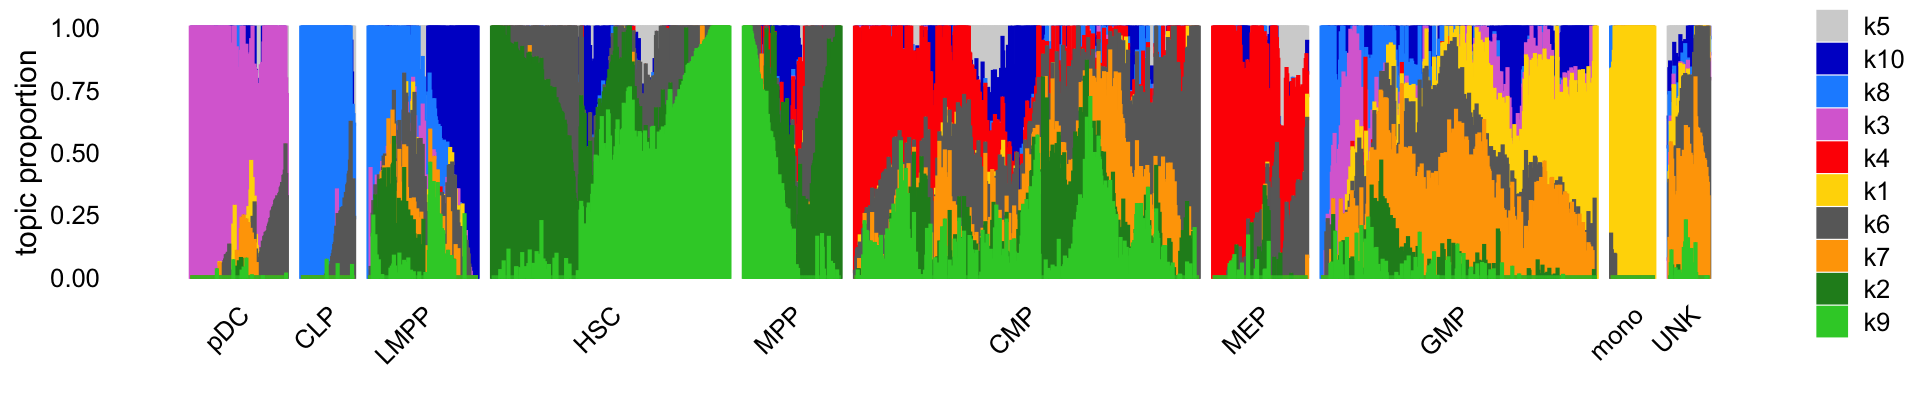
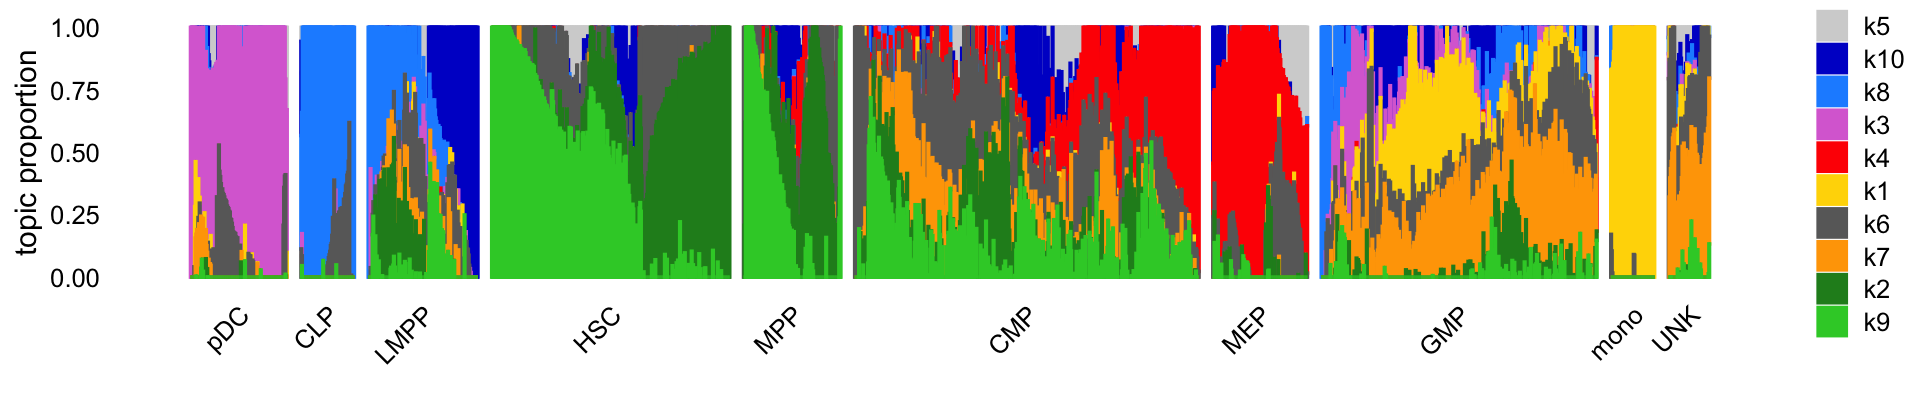
Build site.

diff --git a/docs/buenrostro2018_k10.html b/docs/buenrostro2018_k10.html
@@ -376,7 +376,7 @@ class="glyphicon glyphicon-ok text-success" aria-hidden="true"></span>
 <div class="tab-content">
 <div id="summary" class="tab-pane fade in active">
 <p>
-<strong>Last updated:</strong> 2022-07-11
+<strong>Last updated:</strong> 2022-07-13
 </p>
 <p>
 <strong>Checks:</strong> <span
@@ -507,15 +507,15 @@ project makes it easier to run your code on other machines.</p>
 <div class="panel panel-default">
 <div class="panel-heading">
 <p class="panel-title">
-<a data-toggle="collapse" data-parent="#workflowr-checks" href="#strongRepositoryversionstrongahrefhttpsgithubcomstephenslabscATACseqtopicstreee4bc1eff657f5145d69e3769ee2750c4e479804dtargetblanke4bc1efa">
+<a data-toggle="collapse" data-parent="#workflowr-checks" href="#strongRepositoryversionstrongahrefhttpsgithubcomstephenslabscATACseqtopicstreedcc80278da359d92bcd40405de8dfb720614eaeetargetblankdcc8027a">
 <span class="glyphicon glyphicon-ok text-success"
 aria-hidden="true"></span> <strong>Repository version:</strong>
-<a href="https://github.com/stephenslab/scATACseq-topics/tree/e4bc1eff657f5145d69e3769ee2750c4e479804d" target="_blank">e4bc1ef</a>
+<a href="https://github.com/stephenslab/scATACseq-topics/tree/dcc80278da359d92bcd40405de8dfb720614eaee" target="_blank">dcc8027</a>
 </a>
 </p>
 </div>
 <div
[2 lines of base64/hex data omitted]
 class="panel-collapse collapse">
 <div class="panel-body">
 <p>
@@ -525,7 +525,7 @@ reproducibility.
 </p>
 <p>
 The results in this page were generated with repository version
-<a href="https://github.com/stephenslab/scATACseq-topics/tree/e4bc1eff657f5145d69e3769ee2750c4e479804d" target="_blank">e4bc1ef</a>.
+<a href="https://github.com/stephenslab/scATACseq-topics/tree/dcc80278da359d92bcd40405de8dfb720614eaee" target="_blank">dcc8027</a>.
 See the <em>Past versions</em> tab to see a history of the changes made
 to the R Markdown and HTML files.
 </p>
@@ -551,8 +551,12 @@ Untracked files:
     Untracked:  analysis/fit-Buenrostro2018-binarized-scd-ex-k=10.rds
     Untracked:  data/Buenrostro_2018_binarized.RData
     Untracked:  output/Buenrostro_2018/binarized/filtered_peaks/Buenrostro_2018_binarized_filtered.RData
+    Untracked:  plots/
     Untracked:  scripts/fit-buenrostro-2018-k=8.rds
     Untracked:  scripts/structure_plot_buenrostro2018.png
+
+Unstaged changes:
+    Modified:   analysis/temp.R
 
 </code></pre>
 <p>
@@ -598,6 +602,76 @@ Message
 </tr>
 </thead>
 <tbody>
+<tr>
+<td>
+Rmd
+</td>
+<td>
+<a href="https://github.com/stephenslab/scATACseq-topics/blob/dcc80278da359d92bcd40405de8dfb720614eaee/analysis/buenrostro2018_k10.Rmd" target="_blank">dcc8027</a>
+</td>
+<td>
+Peter Carbonetto
+</td>
+<td>
+2022-07-13
+</td>
+<td>
+workflowr::wflow_publish("analysis/buenrostro2018_k10.Rmd", verbose =
+TRUE)
+</td>
+</tr>
+<tr>
+<td>
+Rmd
+</td>
+<td>
+<a href="https://github.com/stephenslab/scATACseq-topics/blob/287aee72312e4e5d7e46d4e48a3d4131a157059f/analysis/buenrostro2018_k10.Rmd" target="_blank">287aee7</a>
+</td>
+<td>
+Peter Carbonetto
+</td>
+<td>
+2022-07-13
+</td>
+<td>
+Added some text to the buenrostro2018_k10 analysis and revised the
+structure plot a bit.
+</td>
+</tr>
+<tr>
+<td>
+Rmd
+</td>
+<td>
+<a href="https://github.com/stephenslab/scATACseq-topics/blob/ebcdcc4066cd163d25a7ee4f64df46eb4b970b48/analysis/buenrostro2018_k10.Rmd" target="_blank">ebcdcc4</a>
+</td>
+<td>
+Peter Carbonetto
+</td>
+<td>
+2022-07-12
+</td>
+<td>
+In temp.R I have a tile plot I am mostly happy with.
+</td>
+</tr>
+<tr>
+<td>
+html
+</td>
+<td>
+<a href="https://rawcdn.githack.com/stephenslab/scATACseq-topics/8fac50909de13c96808949d94eed631ced3668c3/docs/buenrostro2018_k10.html" target="_blank">8fac509</a>
+</td>
+<td>
+Peter Carbonetto
+</td>
+<td>
+2022-07-11
+</td>
+<td>
+Created exploratory script temp.R.
+</td>
+</tr>
 <tr>
 <td>
 html
@@ -710,40 +784,43 @@ workflowr::wflow_rename("buenrostro2018_k8.Rmd",
 </div>
 </div>
 </div>
-<p><em>Add text here.</em></p>
-<p>Load the packages used in the analysis.</p>
+<p>Here we summarize and interpret the results from the topic modeling
+analysis of the Buenrostro et al (2018) data, with <span
+class="math inline">\(k = 10\)</span> topics.</p>
+<p>Load the packages used in the analysis below.</p>
 <pre class="r"><code>library(Matrix)
 library(fastTopics)
 library(ggplot2)
 library(cowplot)</code></pre>
-<p>Load the count data, the <span class="math inline">\(k = 10\)</span>
-multinomial topic model fit to these data, and the results of the DE
-analysis using this topic model:</p>
-<pre class="r"><code>load(&quot;data/Buenrostro_2018/processed_data/Buenrostro_2018_binarized.RData&quot;)
-fit &lt;- readRDS(
+<p>Load the count data (see <a
+href="process_data_Buenrostro2018.html">here</a> for details on these
+data and how they were prepared).</p>
+<pre class="r"><code>load(&quot;data/Buenrostro_2018/processed_data/Buenrostro_2018_binarized.RData&quot;)</code></pre>
+<p>Next we load the <span class="math inline">\(k = 10\)</span>
+multinomial topic model fit to these data, the results of the GoM DE
+analysis using this topic model, and the results of the HOMER motif
+enrichment analysis using the <em>p</em>-values from the GoM DE
+analysis:</p>
+<pre class="r"><code>fit &lt;- readRDS(
   file.path(&quot;output/Buenrostro_2018/binarized/filtered_peaks&quot;,
             &quot;fit-Buenrostro2018-binarized-filtered-scd-ex-k=10.rds&quot;))$fit
 fit &lt;- poisson2multinom(fit)
 load(file.path(&quot;output/Buenrostro_2018/binarized/filtered_peaks&quot;,
-               &quot;de-buenrostro2018-k=10-noshrink.RData&quot;))</code></pre>
+               &quot;de-buenrostro2018-k=10-noshrink.RData&quot;))
+homer &lt;- readRDS(file.path(&quot;output/Buenrostro_2018/binarized/filtered_peaks&quot;,
+                           &quot;homer-buenrostro2018-k=10-noshrink.rds&quot;))</code></pre>
 <p>Visualize the structure identified in the FACS cell populations using
 a Structure plot:</p>
 <pre class="r"><code>set.seed(1)
-celltypes = factor(samples$label,
-                   c(&quot;pDC&quot;,&quot;CLP&quot;,&quot;LMPP&quot;,&quot;HSC&quot;,&quot;MPP&quot;,&quot;CMP&quot;,&quot;MEP&quot;,&quot;GMP&quot;,
-                     &quot;mono&quot;,&quot;UNK&quot;))
+celltypes &lt;- factor(samples$label,
+                    c(&quot;pDC&quot;,&quot;CLP&quot;,&quot;LMPP&quot;,&quot;HSC&quot;,&quot;MPP&quot;,&quot;CMP&quot;,&quot;MEP&quot;,&quot;GMP&quot;,
+                      &quot;mono&quot;,&quot;UNK&quot;))
 topic_colors &lt;- c(&quot;gold&quot;,&quot;forestgreen&quot;,&quot;orchid&quot;,&quot;red&quot;,&quot;lightgray&quot;,
-                  &quot;dimgray&quot;,&quot;orange&quot;,&quot;dodgerblue&quot;,&quot;limegreen&quot;,
-                  &quot;mediumblue&quot;)
-custom_embed_method &lt;- function (fit, ...) {
-  y0 &lt;- pca_from_topics(fit,dims = 1)
-  return(tsne_from_topics(fit,dims = 1,Y_init = matrix(y0),eta = 30,
-         perplexity = 70,...))
-}
-structure_plot(fit,grouping = celltypes,n = Inf,gap = 20,
-               verbose = FALSE,colors = topic_colors,
-               topics = c(5,10,8,3,4,1,6,7,2,9),
-               embed_method = custom_embed_method)</code></pre>
+                  &quot;dimgray&quot;,&quot;orange&quot;,&quot;dodgerblue&quot;,&quot;limegreen&quot;,&quot;mediumblue&quot;)
+p1 &lt;- structure_plot(fit,grouping = celltypes,n = Inf,gap = 20,
+                     perplexity = 70,verbose = FALSE,colors = topic_colors,
+                     topics = c(5,10,8,3,4,1,6,7,2,9))
+print(p1)</code></pre>
 <p><img src="figure/buenrostro2018_k10.Rmd/structure-plot-1.png" width="960" style="display: block; margin: auto;" /></p>
 <p>
 <button type="button" class="btn btn-default btn-xs btn-workflowr btn-workflowr-fig" data-toggle="collapse" data-target="#fig-structure-plot-1">
@@ -767,6 +844,17 @@ Date
 </tr>
 </thead>
 <tbody>
+<tr>
+<td>
+<a href="https://github.com/stephenslab/scATACseq-topics/blob/8fac50909de13c96808949d94eed631ced3668c3/docs/figure/buenrostro2018_k10.Rmd/structure-plot-1.png" target="_blank">8fac509</a>
+</td>
+<td>
+Peter Carbonetto
+</td>
+<td>
+2022-07-11
+</td>
+</tr>
 <tr>
 <td>
 <a href="https://github.com/stephenslab/scATACseq-topics/blob/0493e2fad1423d3863ee7166eeac71018424df30/docs/figure/buenrostro2018_k10.Rmd/structure-plot-1.png" target="_blank">0493e2f</a>
@@ -804,6 +892,17 @@ Peter Carbonetto
 </table>
 </div>
 </div>
+<p>Comparing the topic proportions with the cell labels (provided by
+FACS), we see that the topics capture chromatin accessibility patterns
+characteristic of early hematopoietic progenitors (HSC, MPP; topics 2
+and 9), and the four different hematopoietic cell lineages: CLPs and
+LMPPs (topic 8); pDCs (topic 3); monocytes and GMPs (topics 1 and 7);
+and MEPs (topic 4). Additional topics (topics 5, 6 and 10) may be
+picking up other factors such as patient-specific batch effects or
+tissue of origin (bone marrow or blood). Additionally, the split of the
+HSC/MPP cells into two topics seems to also reflect patient-specific
+batch effects, which also came up in the PCA analysis in the original
+paper.</p>
 <p>The <code>de_analysis</code> function attempts to quantify
 <em>differential accessibility</em> in each of the peaks:</p>
 <pre class="r"><code>n &lt;- nrow(de$z)
@@ -814,44 +913,6 @@ for (i in 1:k)
   p[[i]] &lt;- volcano_plot(de,i,labels = rep(&quot;&quot;,n)) +
     guides(fill = &quot;none&quot;)
 do.call(&quot;plot_grid&quot;,c(p,list(nrow = 4,ncol = 3)))</code></pre>
-<p><img src="figure/buenrostro2018_k10.Rmd/volcano-plots-1.png" width="660" style="display: block; margin: auto;" /></p>
-<p>
-<button type="button" class="btn btn-default btn-xs btn-workflowr btn-workflowr-fig" data-toggle="collapse" data-target="#fig-volcano-plots-1">
-Past versions of volcano-plots-1.png
-</button>
-</p>
-<div id="fig-volcano-plots-1" class="collapse">
-<div class="table-responsive">
-<table class="table table-condensed table-hover">
-<thead>
-<tr>
-<th>
-Version
-</th>
-<th>
-Author
-</th>
-<th>
-Date
-</th>
-</tr>
-</thead>
-<tbody>
-<tr>
-<td>
-<a href="https://github.com/stephenslab/scATACseq-topics/blob/0493e2fad1423d3863ee7166eeac71018424df30/docs/figure/buenrostro2018_k10.Rmd/volcano-plots-1.png" target="_blank">0493e2f</a>
-</td>
-<td>
-Peter Carbonetto
-</td>
-<td>
-2022-05-10
-</td>
-</tr>
-</tbody>
-</table>
-</div>
-</div>
 <p>The individual results are not strong, but an enrichment analysis of
 the peaks might point to interesting patterns among these differentially
 accessible peaks.</p>
@@ -880,30 +941,32 @@ Session information
 # 
 # other attached packages:
 # [1] cowplot_1.0.0      ggplot2_3.3.5      fastTopics_0.6-131 Matrix_1.2-18     
+# [5] workflowr_1.7.0   
 # 
 # loaded via a namespace (and not attached):
-#  [1] httr_1.4.2         sass_0.4.0         tidyr_1.1.3        viridisLite_0.3.0 
-#  [5] jsonlite_1.7.2     bslib_0.3.1        RcppParallel_5.1.5 assertthat_0.2.1  
-#  [9] highr_0.8          mixsqp_0.3-46      progress_1.2.2     yaml_2.2.0        
-# [13] ggrepel_0.9.1      pillar_1.6.2       backports_1.1.5    lattice_0.20-38   
-# [17] quadprog_1.5-8     quantreg_5.54      glue_1.4.2         digest_0.6.23     
-# [21] promises_1.1.0     colorspace_1.4-1   htmltools_0.5.2    httpuv_1.5.2      
-# [25] pkgconfig_2.0.3    invgamma_1.1       SparseM_1.78       purrr_0.3.4       
-# [29] scales_1.1.0       whisker_0.4        later_1.0.0        Rtsne_0.15        
-# [33] MatrixModels_0.4-1 git2r_0.29.0       tibble_3.1.3       farver_2.0.1      
-# [37] generics_0.0.2     ellipsis_0.3.2     withr_2.5.0        ashr_2.2-54       
-# [41] pbapply_1.5-1      lazyeval_0.2.2     magrittr_2.0.1     crayon_1.4.1      
-# [45] mcmc_0.9-6         evaluate_0.14      fs_1.5.2           fansi_0.4.0       
-# [49] MASS_7.3-51.4      truncnorm_1.0-8    prettyunits_1.1.1  tools_3.6.2       
-# [53] data.table_1.12.8  hms_1.1.0          lifecycle_1.0.0    stringr_1.4.0     
-# [57] MCMCpack_1.4-5     plotly_4.9.2       munsell_0.5.0      irlba_2.3.3       
-# [61] compiler_3.6.2     jquerylib_0.1.4    rlang_0.4.11       grid_3.6.2        
-# [65] rstudioapi_0.13    htmlwidgets_1.5.1  labeling_0.3       rmarkdown_2.11    
-# [69] gtable_0.3.0       DBI_1.1.0          R6_2.4.1           knitr_1.37        
-# [73] dplyr_1.0.7        uwot_0.1.10        fastmap_1.1.0      utf8_1.1.4        
-# [77] workflowr_1.7.0    rprojroot_1.3-2    stringi_1.4.3      parallel_3.6.2    
-# [81] SQUAREM_2017.10-1  Rcpp_1.0.7         vctrs_0.3.8        tidyselect_1.1.1  
-# [85] xfun_0.29          coda_0.19-3</code></pre>
+#  [1] mcmc_0.9-6         fs_1.5.2           progress_1.2.2     httr_1.4.2        
+#  [5] rprojroot_1.3-2    tools_3.6.2        backports_1.1.5    bslib_0.3.1       
+#  [9] utf8_1.1.4         R6_2.4.1           irlba_2.3.3        uwot_0.1.10       
+# [13] DBI_1.1.0          lazyeval_0.2.2     colorspace_1.4-1   withr_2.5.0       
+# [17] tidyselect_1.1.1   prettyunits_1.1.1  processx_3.5.2     compiler_3.6.2    
+# [21] git2r_0.29.0       quantreg_5.54      SparseM_1.78       plotly_4.9.2      
+# [25] labeling_0.3       sass_0.4.0         scales_1.1.0       SQUAREM_2017.10-1 
+# [29] quadprog_1.5-8     callr_3.7.0        pbapply_1.5-1      mixsqp_0.3-46     
+# [33] systemfonts_1.0.2  stringr_1.4.0      digest_0.6.23      rmarkdown_2.11    
+# [37] MCMCpack_1.4-5     pkgconfig_2.0.3    htmltools_0.5.2    fastmap_1.1.0     
+# [41] invgamma_1.1       highr_0.8          htmlwidgets_1.5.1  rlang_0.4.11      
+# [45] rstudioapi_0.13    jquerylib_0.1.4    generics_0.0.2     farver_2.0.1      
+# [49] jsonlite_1.7.2     dplyr_1.0.7        magrittr_2.0.1     Rcpp_1.0.7        
+# [53] munsell_0.5.0      fansi_0.4.0        lifecycle_1.0.0    stringi_1.4.3     
+# [57] whisker_0.4        yaml_2.2.0         MASS_7.3-51.4      Rtsne_0.15        
+# [61] grid_3.6.2         parallel_3.6.2     promises_1.1.0     ggrepel_0.9.1     
+# [65] crayon_1.4.1       lattice_0.20-38    hms_1.1.0          knitr_1.37        
+# [69] ps_1.6.0           pillar_1.6.2       glue_1.4.2         evaluate_0.14     
+# [73] getPass_0.2-2      data.table_1.12.8  RcppParallel_5.1.5 vctrs_0.3.8       
+# [77] httpuv_1.5.2       MatrixModels_0.4-1 gtable_0.3.0       purrr_0.3.4       
+# [81] tidyr_1.1.3        assertthat_0.2.1   ashr_2.2-54        xfun_0.29         
+# [85] coda_0.19-3        later_1.0.0        ragg_0.3.1         viridisLite_0.3.0 
+# [89] truncnorm_1.0-8    tibble_3.1.3       ellipsis_0.3.2</code></pre>
 </div>
 
 

diff --git a/docs/site_libs/header-attrs-2.11/header-attrs.js b/docs/site_libs/header-attrs-2.11/header-attrs.js
@@ -1,0 +1,12 @@
+// Pandoc 2.9 adds attributes on both header and div. We remove the former (to
+// be compatible with the behavior of Pandoc < 2.8).
+document.addEventListener('DOMContentLoaded', function(e) {
+  var hs = document.querySelectorAll("div.section[class*='level'] > :first-child");
+  var i, h, a;
+  for (i = 0; i < hs.length; i++) {
+    h = hs[i];
+    if (!/^h[1-6]$/i.test(h.tagName)) continue;  // it should be a header h1-h6
+    a = h.attributes;
+    while (a.length > 0) h.removeAttribute(a[0].name);
+  }
+});
